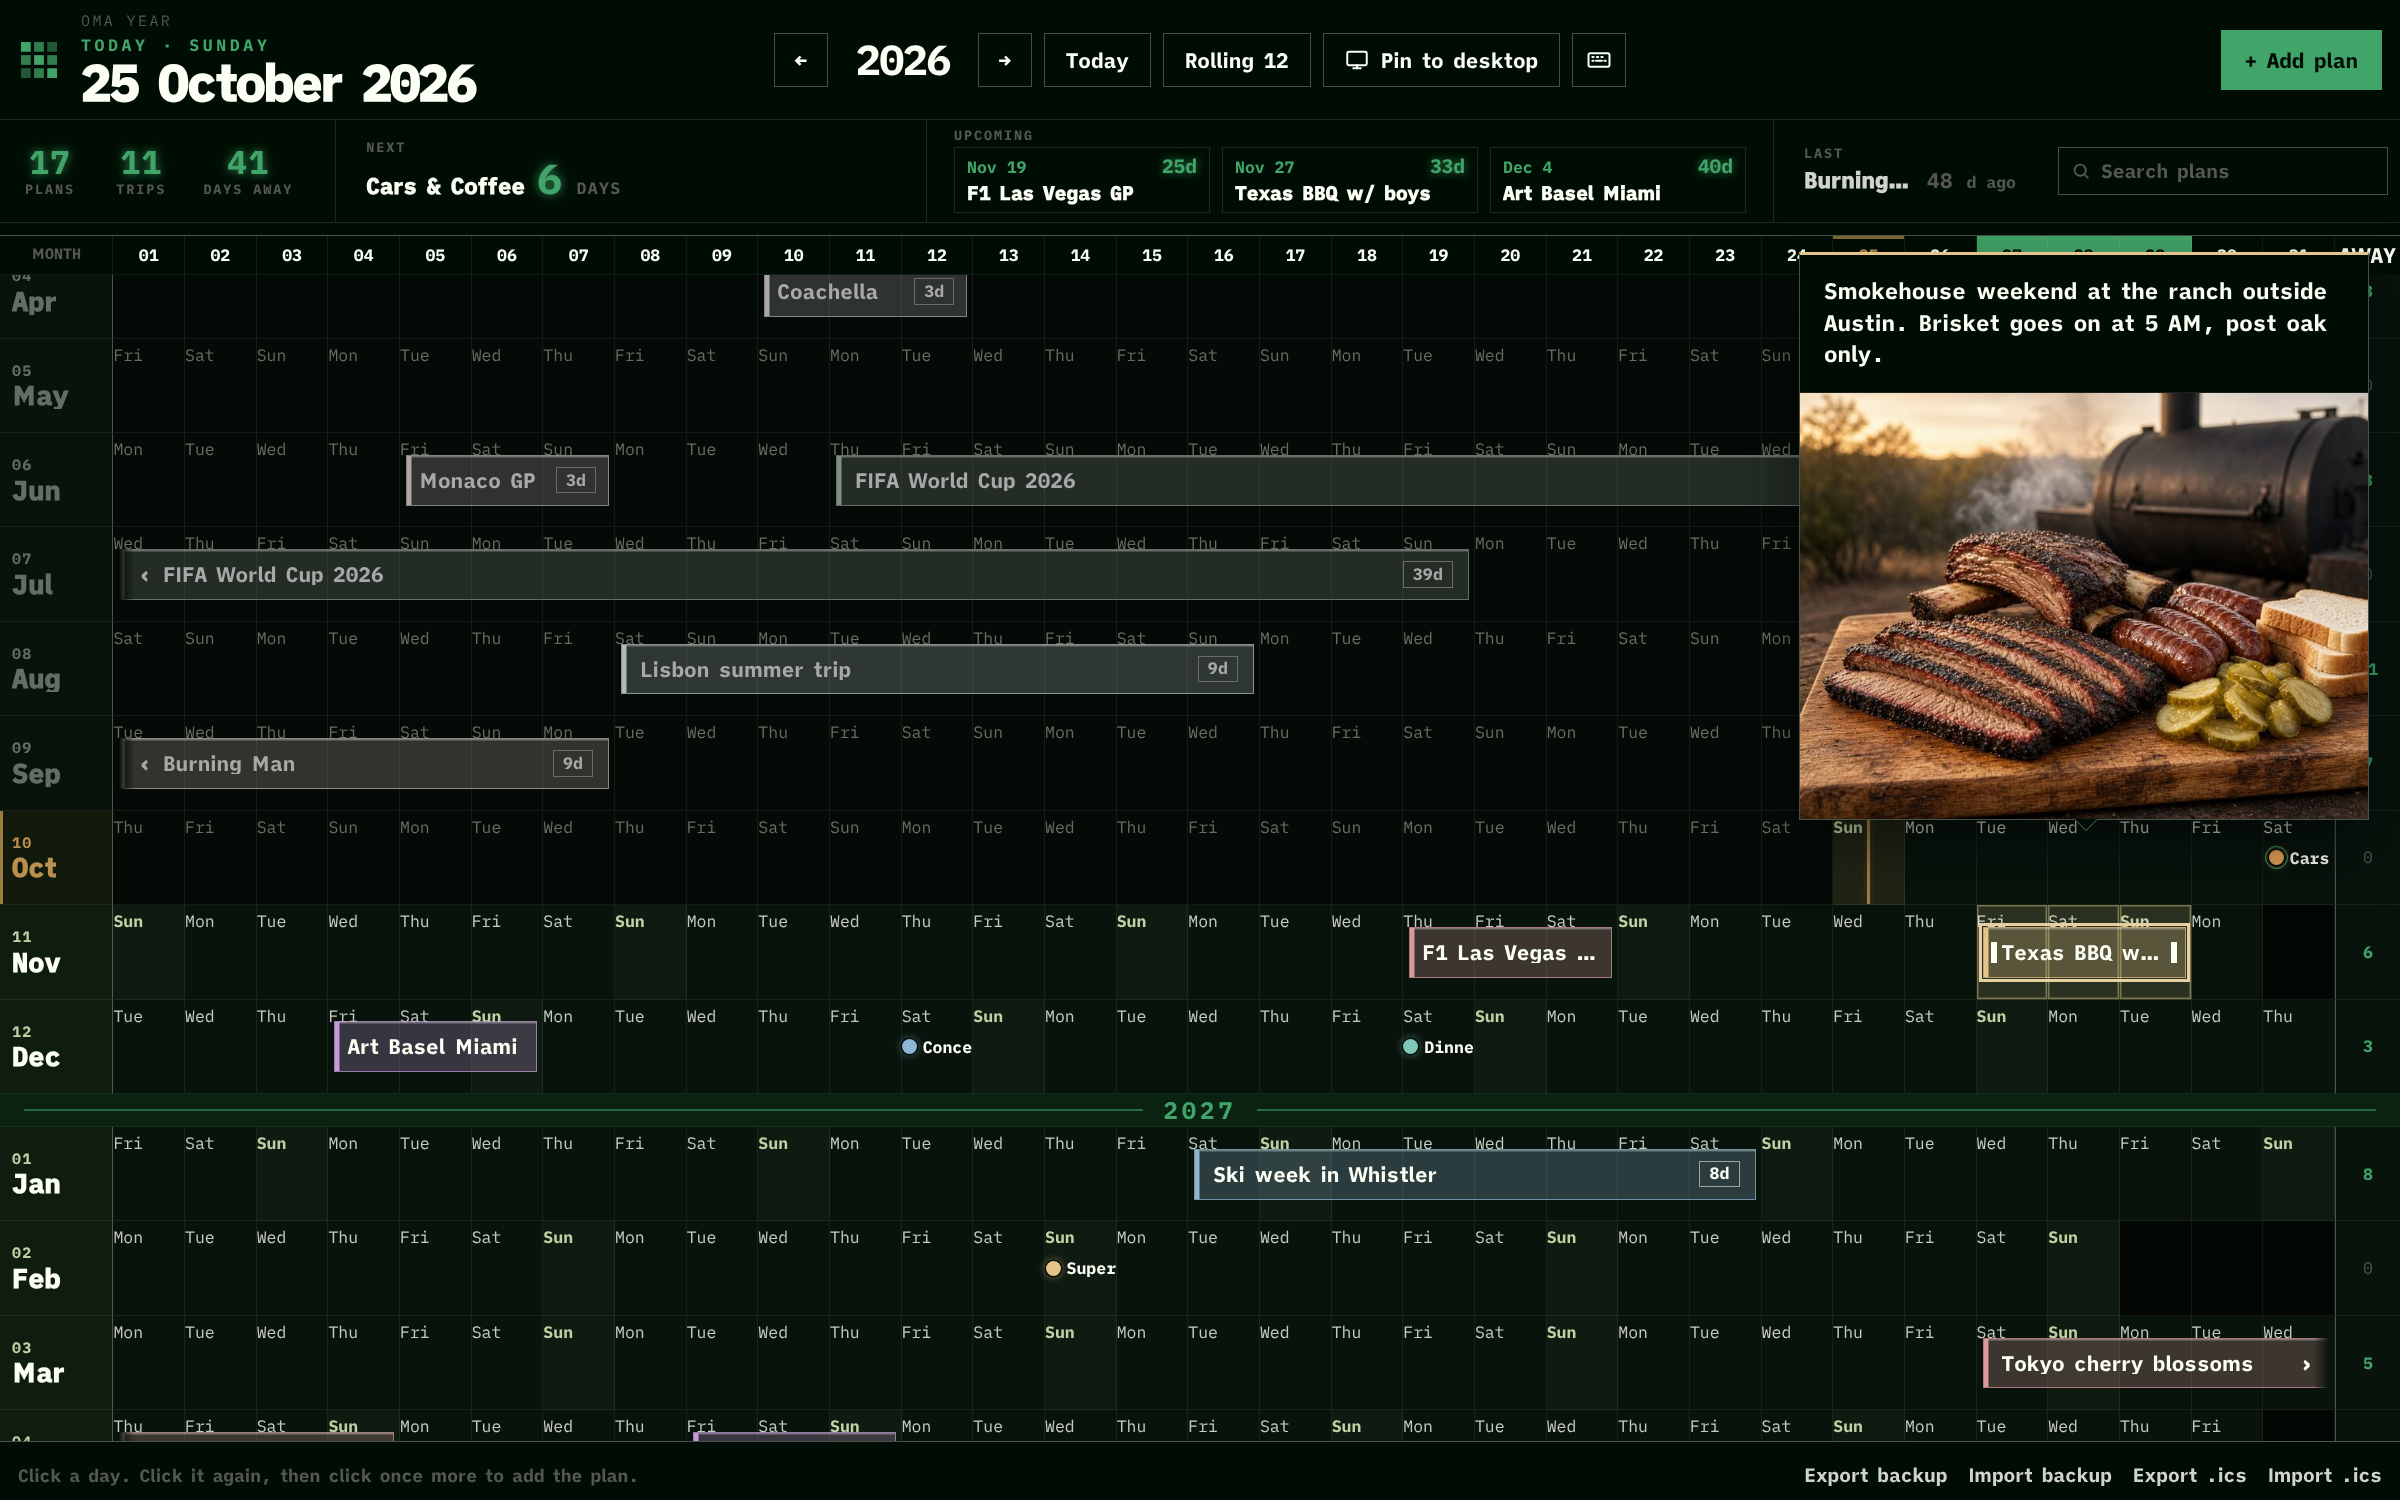
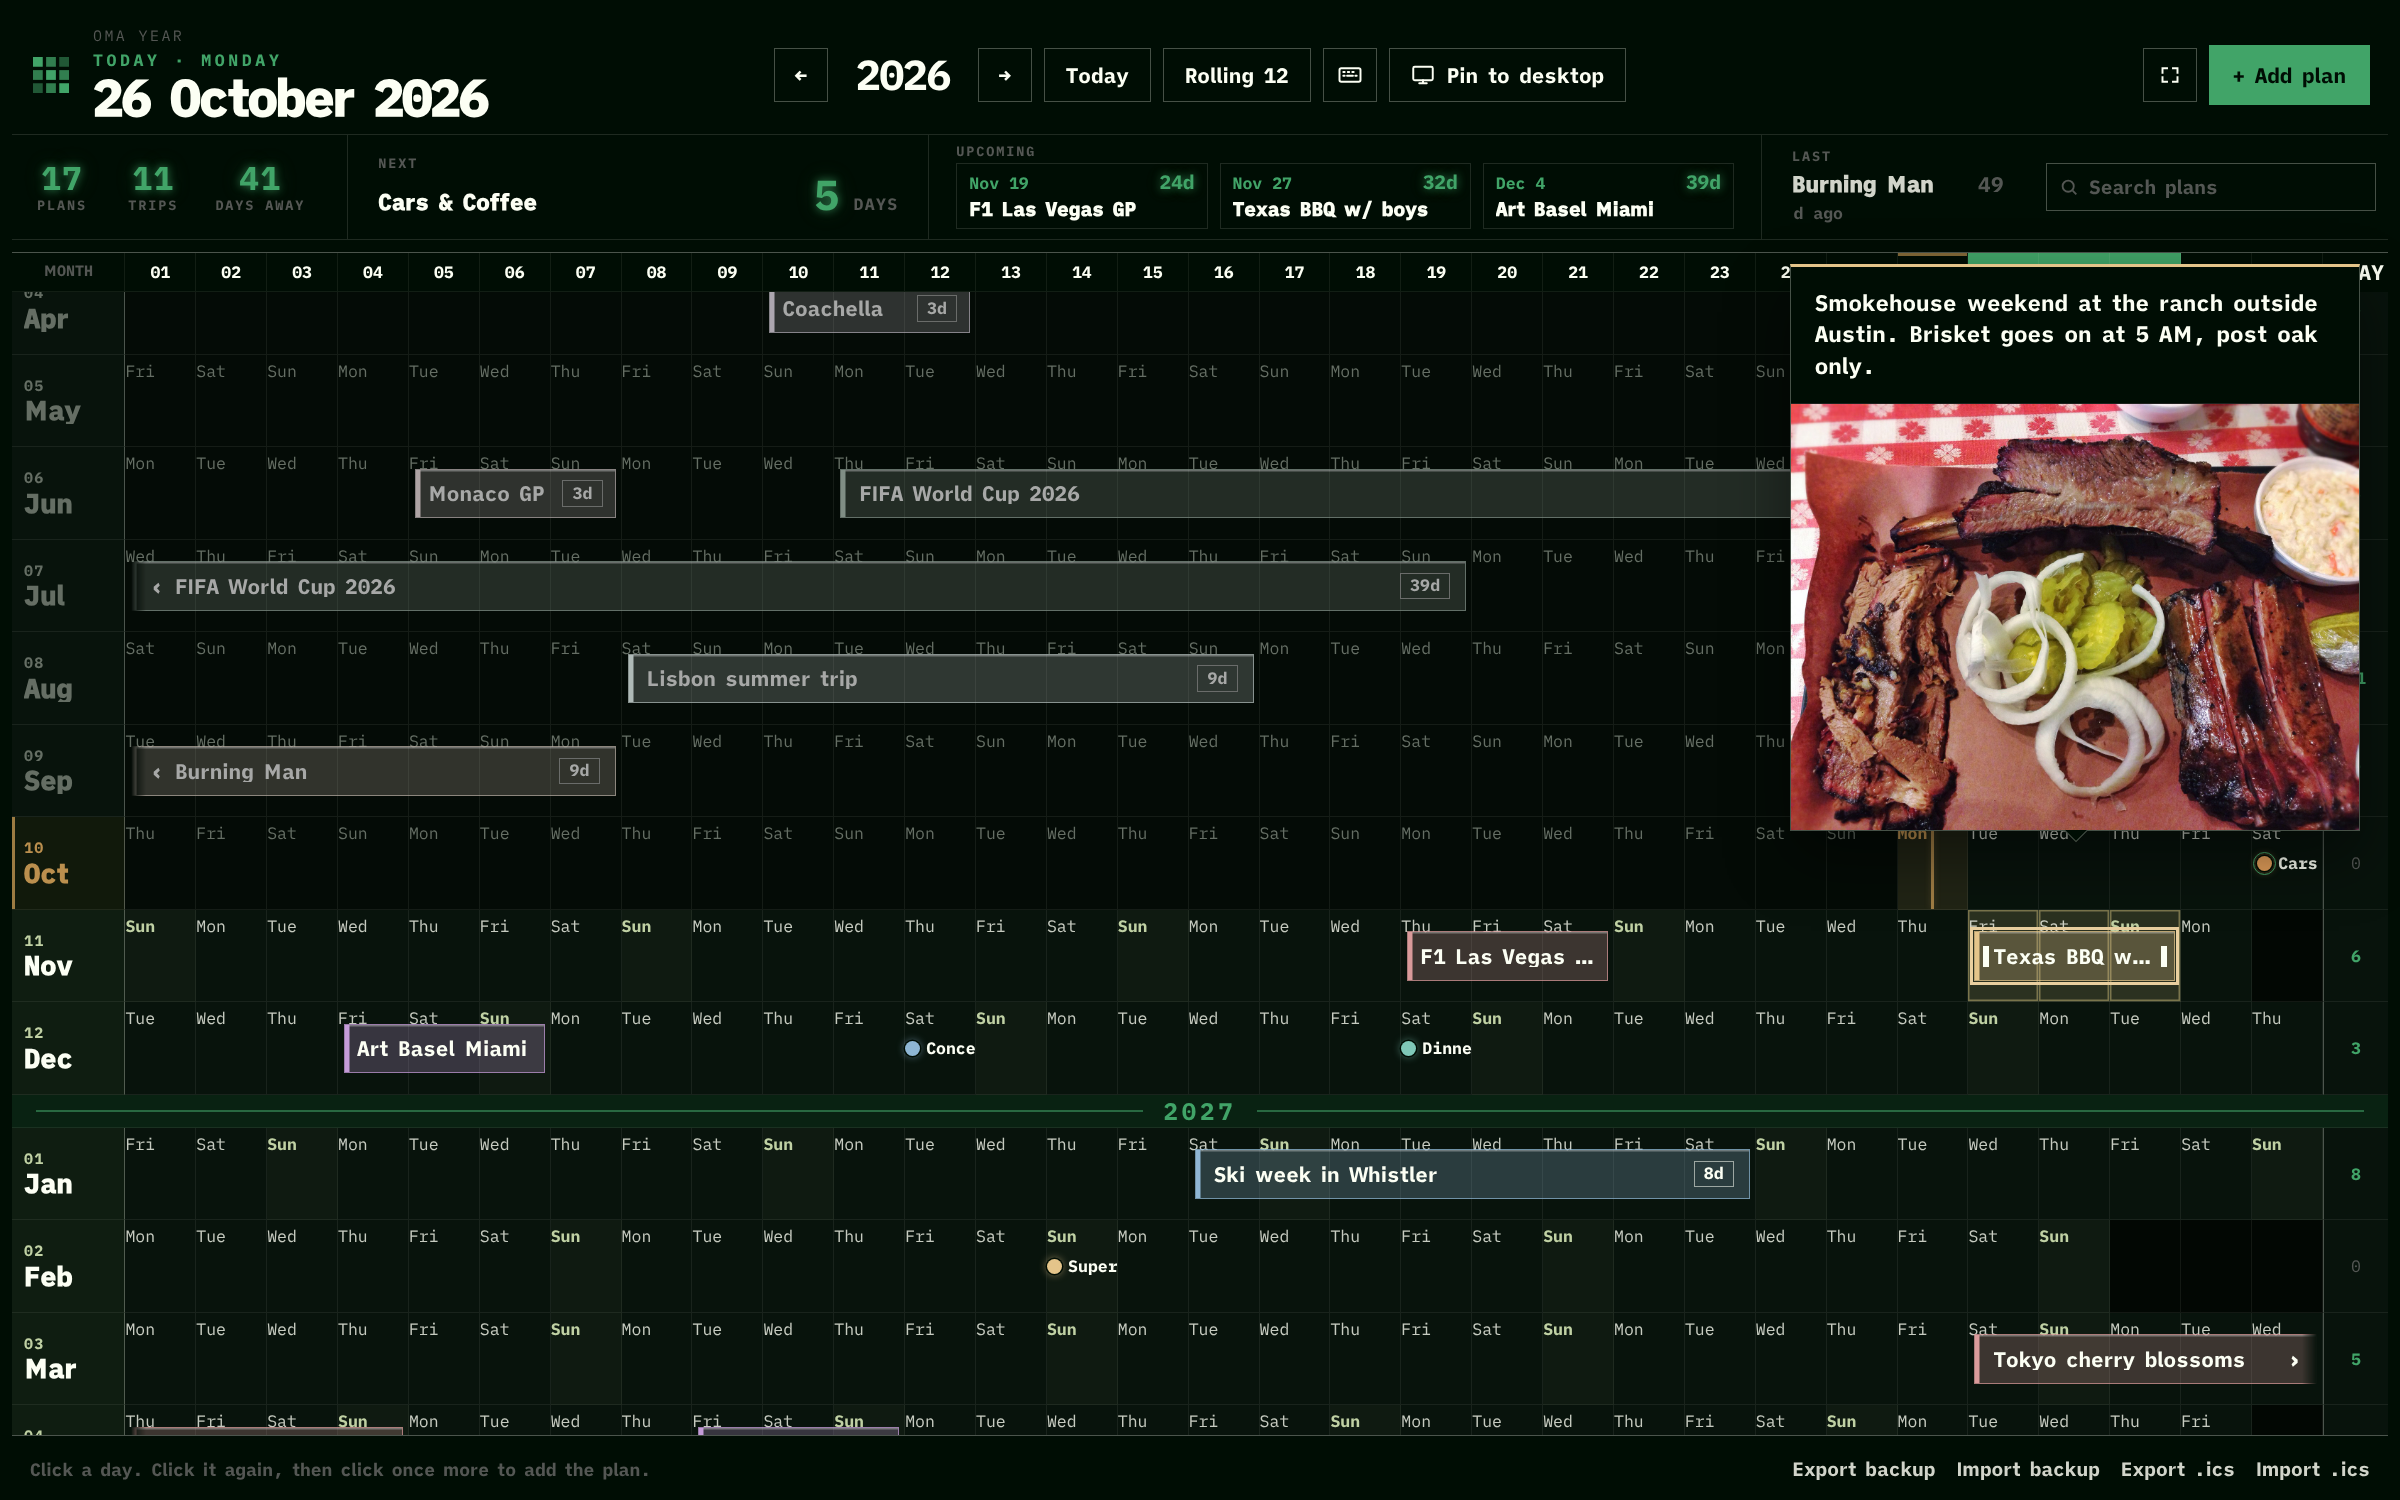
Use a real Black's Barbecue photo in the demo screenshots

diff --git a/README.md b/README.md
@@ -36,7 +36,7 @@ All plans in these shots are demo data.
 | <img src="screenshots/add-plan.png" alt="Add plan dialog filling in F1 Las Vegas Grand Prix" width="460"><br>**Add a plan.** Drag across days or press `N`, then name it, pick the type and color, and add a note. | <img src="screenshots/plan-detail.png" alt="A plan opened on the board with its note and photo" width="460"><br>**Open a plan.** Click a plan to see its note and photos right on the board. |
 | <img src="screenshots/plan-edit.png" alt="Edit plan dialog with a note, checklist and photo" width="460"><br>**Notes, checklists and photos.** Up to four images per plan. | |
 
-The barbecue photo is AI-generated for this demo.
+Barbecue photo: ["Barbecue plate at Black's Barbecue"](https://commons.wikimedia.org/wiki/File:Barbecue_plate_at_Black%27s_Barbecue.jpg) by T.Tseng, [CC BY 2.0](https://creativecommons.org/licenses/by/2.0/), via Wikimedia Commons.
 
 ## Privacy
 
